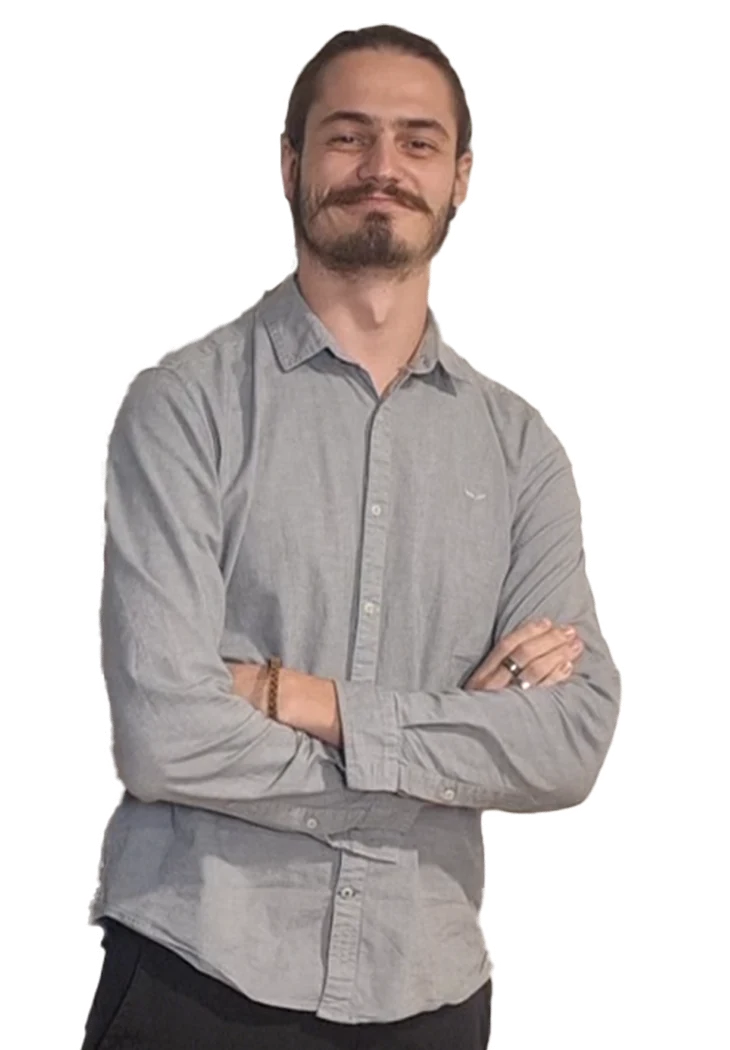
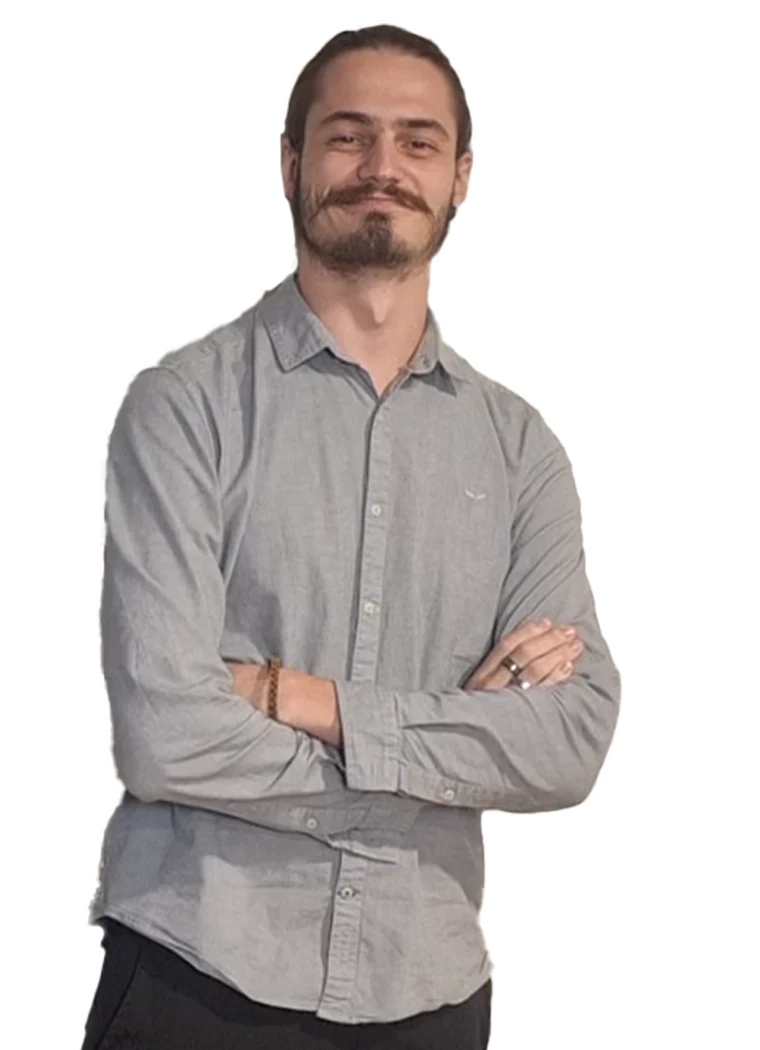
About me: chill as default pose, wondering pose, new exit button image

diff --git a/index.html b/index.html
@@ -229,7 +229,7 @@ body.locked{ overflow:hidden; }
 .about.open{ visibility:visible; background:rgba(8,40,50,.6); transition:background .45s ease, visibility 0s; }
 /* same box as the desk picture (3417×1600), so everything lines up with it */
 .about-world{ position:relative; flex:none; height:var(--h); width:calc(var(--h) * 3417 / 1600); container-type:size; }
-.ab-person{ position:absolute; left:57.36%; top:34.375%; width:21.36%; height:65.625%; opacity:0; transform:translateX(5%); pointer-events:none;
+.ab-person{ position:absolute; left:57.36%; top:34.375%; width:22.24%; height:65.625%; opacity:0; transform:translateX(5%); pointer-events:none;
   transition:opacity .3s ease, transform .45s cubic-bezier(.22,.9,.3,1); }
 .ab-person.on{ opacity:1; transform:none; }
 .ab-main{ position:absolute; left:33.95%; top:12.625%; width:29.47%; height:35.19%; opacity:0; transform:scale(.5); transform-origin:92% 96%; pointer-events:none;
@@ -250,17 +250,15 @@ body.locked{ overflow:hidden; }
   font-family:"Caveat","Segoe Script",cursive; font-weight:700; font-size:3.7cqh; line-height:1; color:#1c2a33; pointer-events:none; }
 /* the X sits at a fixed place of the desk picture (76.6 % across, 26.5 % down), so it keeps its place whatever the window size */
 .about-x{ position:fixed; z-index:2; left:calc(50vw + var(--h) * .568); top:calc((100vh - var(--h)) / 2 + var(--h) * .265); transform:translate(-50%,-50%);
-  width:max(44px, calc(var(--h) * .105)); height:max(44px, calc(var(--h) * .105)); padding:0; border-radius:50%;
-  border:3px solid #1D2833; background:#C4223F; cursor:pointer; box-shadow:0 6px 16px rgba(0,0,0,.4); transition:transform .15s ease; }
-.about-x::before, .about-x::after{ content:""; position:absolute; left:50%; top:50%; width:52%; height:6%; margin:-3% 0 0 -26%; background:#1D2833; border-radius:3px; transform:rotate(45deg); }
-.about-x::after{ transform:rotate(-45deg); }
+  width:max(44px, calc(var(--h) * .105)); height:max(44px, calc(var(--h) * .105)); padding:0; border:0; background:url("Portfolio Images/AboutME/exit.webp") center / contain no-repeat; cursor:pointer;
+  filter:drop-shadow(0 6px 10px rgba(0,0,0,.4)); transition:transform .15s ease; }
 .about-x:hover, .about-x:focus-visible{ transform:translate(-50%,-50%) scale(1.1); outline:none; }
 @media (max-aspect-ratio:13/10){
   /* tall windows (phones): the dialogue gets its own layout, measured on the window instead of on the desk picture */
   .about-world{ position:absolute; inset:0; width:auto; height:auto; }
   .about-x{ left:auto; right:10px; top:10px; transform:none; width:44px; height:44px; }
   .about-x:hover, .about-x:focus-visible{ transform:scale(1.1); }
-  .ab-person{ left:auto; right:-3%; top:auto; bottom:0; height:40%; width:auto; aspect-ratio:730/1050; }
+  .ab-person{ left:auto; right:-3%; top:auto; bottom:0; height:40%; width:auto; aspect-ratio:760/1050; }
   .ab-main{ left:4%; top:9%; width:92%; height:33%; }
   .ab-text{ font-size:7.4cqw; }
   .ab-ans{ width:44% !important; height:7.5% !important; }
@@ -356,6 +354,7 @@ body.editing .editbar{ display:block; }
     <img class="ab-person" data-pose="intro" alt="Ignacio">
     <img class="ab-person" data-pose="chill" alt="">
     <img class="ab-person" data-pose="question" alt="">
+    <img class="ab-person" data-pose="wondering" alt="">
     <div class="ab-main" id="abMain"><img alt=""><div class="ab-text" id="abText"></div></div>
   </div>
   <button type="button" class="about-x" id="aboutX" aria-label="Close"></button>
@@ -818,12 +817,13 @@ for (const ev of ["play", "pause", "ended"]) inner.addEventListener(ev, e => {
   const box = e.target.closest && e.target.closest(".vbox"); if (box) box.classList.toggle("playing", ev === "play");
 }, true);
 // --- About me ---
-// Edit the words here. Each line is one click; "ask" is shown when the visitor may pick a question.
+// Edit the words here. Each line is one click. A line is a string, or { t, pose } to show another picture of Ignacio
+// (poses: "chill" = the normal one, "intro", "question", "wondering").
 const ABOUT = {
   intro: [
-    { t: "Hi!", pose: "intro" },
-    { t: "I'm Ignacio. A future Game Designer.", pose: "intro" },
-    { t: "This is my About Me section, where you can learn a little about me.", pose: "chill" },
+    { t: "Hi!" },
+    { t: "I'm Ignacio. A future Game Designer." },
+    { t: "This is my About Me section, where you can learn a little about me.", pose: "intro" },
   ],
   ask: { t: "Is there anything that you want to know?", pose: "question" },
   // box = the answer bubble's place in the 3417×1600 picture: [left, top, right, bottom] in pixels
@@ -832,7 +832,7 @@ const ABOUT = {
       "I have a degree in Industrial Design Engineering.",
       "But I needed to express my creativity in a way that engineering didn't allow.",
       "I also realized that all the inventions and ideas I had belonged more to the realm of science fiction than to the real world.",
-      "And that I wouldn't be able to create my iron suit any time soon.",
+      { t: "And that I wouldn't be able to create my iron suit any time soon.", pose: "wondering" },
       "So I realized that my love for indie games was more than just a hobby.",
       "And that I could put in 200% without much effort.",
       "Currently, I am studying Game Design at Howest, driven by the desire to learn as much as I can and become the best version of myself.",
@@ -846,7 +846,7 @@ const ABOUT = {
       "I want to make games that are not only entertaining but also stay in players' memories and positively impact them.",
     ] },
     { label: "HOBBIES", box: [1636, 776, 1984, 956], lines: [
-      "My hobbies? You ask?",
+      { t: "My hobbies? You ask?", pose: "wondering" },
       "I spend most of my free time playing indies and reading,",
       "and before going to sleep, I write some random stuff or work on my world-building.",
       "But when I get the chance, I also like drawing, photography and climbing.",
@@ -873,7 +873,8 @@ function abFit(){                                                    // shrink l
 }
 function abSay(line){
   abText.textContent = line.t; abFit();
-  for (const k in abPersons) abPersons[k].classList.toggle("on", k === line.pose);
+  const pose = line.pose || "chill";                                  // Ignacio's normal picture is "chill"
+  for (const k in abPersons) abPersons[k].classList.toggle("on", k === pose);
 }
 function abAsk(){ abMode = "ask"; aboutEl.classList.add("asking"); abSay(ABOUT.ask); }
 function abNext(){
@@ -898,7 +899,7 @@ abWorld.addEventListener("click", e => {
   const btn = e.target.closest(".ab-ans"); if (!btn) return;
   btn.classList.add("done");                                          // remembered while the page stays open
   abMode = "answer"; aboutEl.classList.remove("asking");              // the question bubbles hide until the answer is finished
-  abQueue = ABOUT.topics[+btn.dataset.i].lines.map(t => ({ t, pose: "chill" }));
+  abQueue = ABOUT.topics[+btn.dataset.i].lines.map(l => typeof l === "string" ? { t: l } : l);
   abSay(abQueue.shift());
 });
 document.getElementById("aboutX").addEventListener("click", closeAbout);   // the X is the only way out
